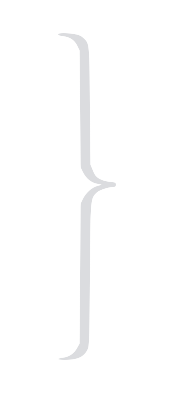
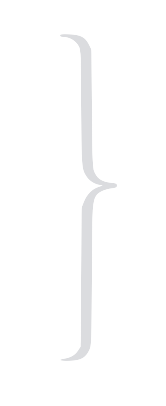
redesign again obviously

Changed region(s): [[0.3313, 0.0887, 0.6928, 0.8867], [0.3313, 0.0591, 0.3614, 0.0887]]

diff --git a/djsite/static/home.css b/djsite/static/home.css
@@ -43,7 +43,7 @@ a:focus {
 .brace {
     height: 60px;
     position: relative;
-    top: 23px;
+    top: 24px;
 }
 
 .name {
